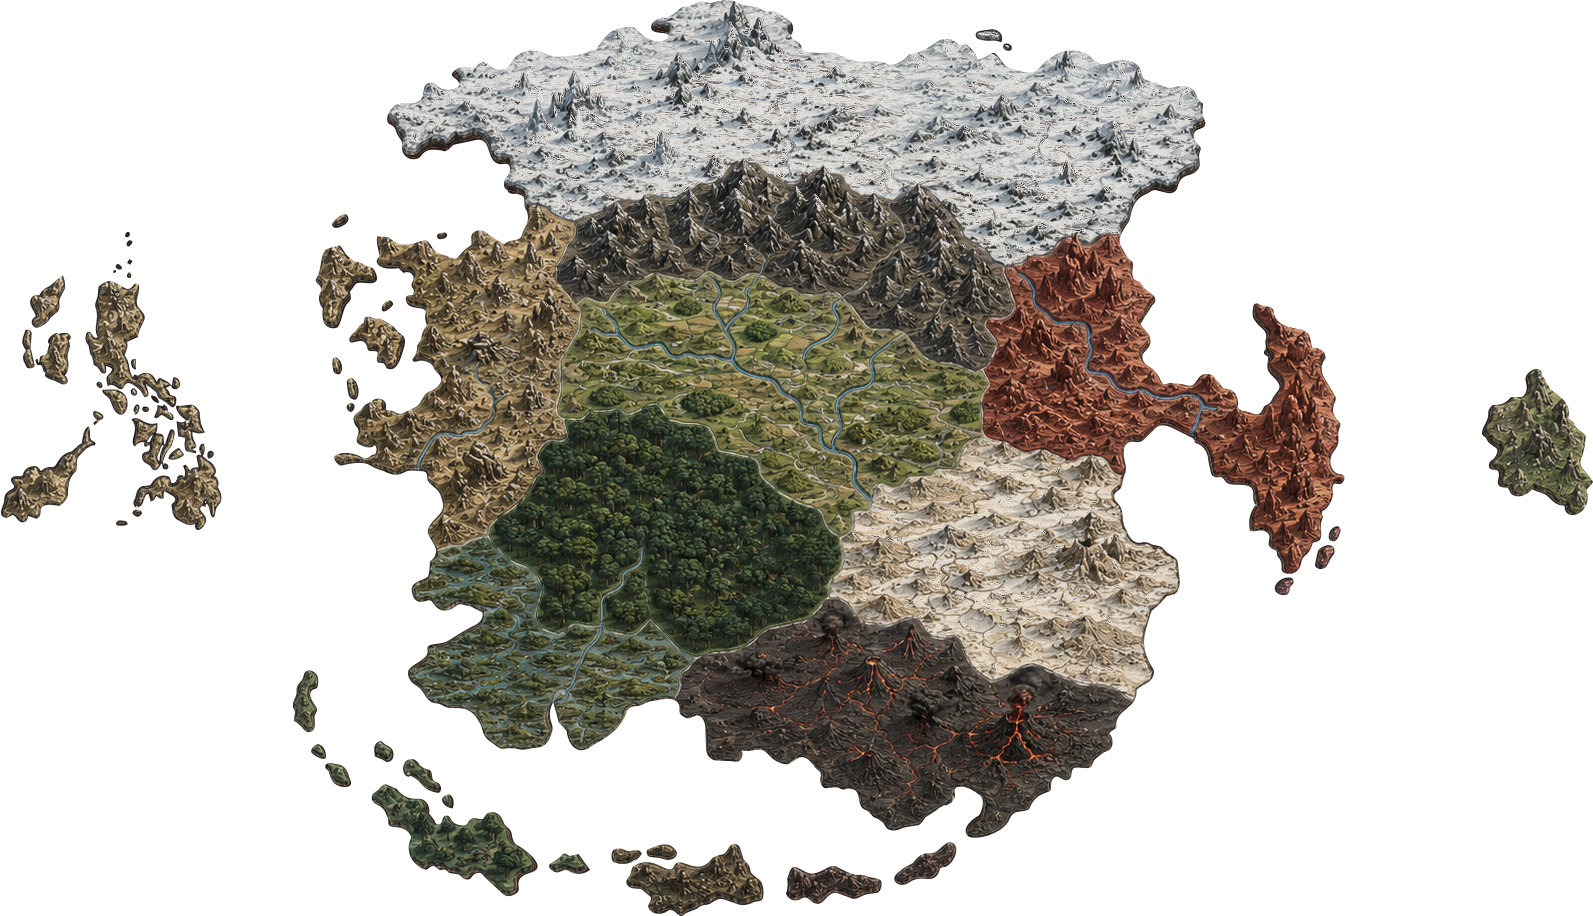
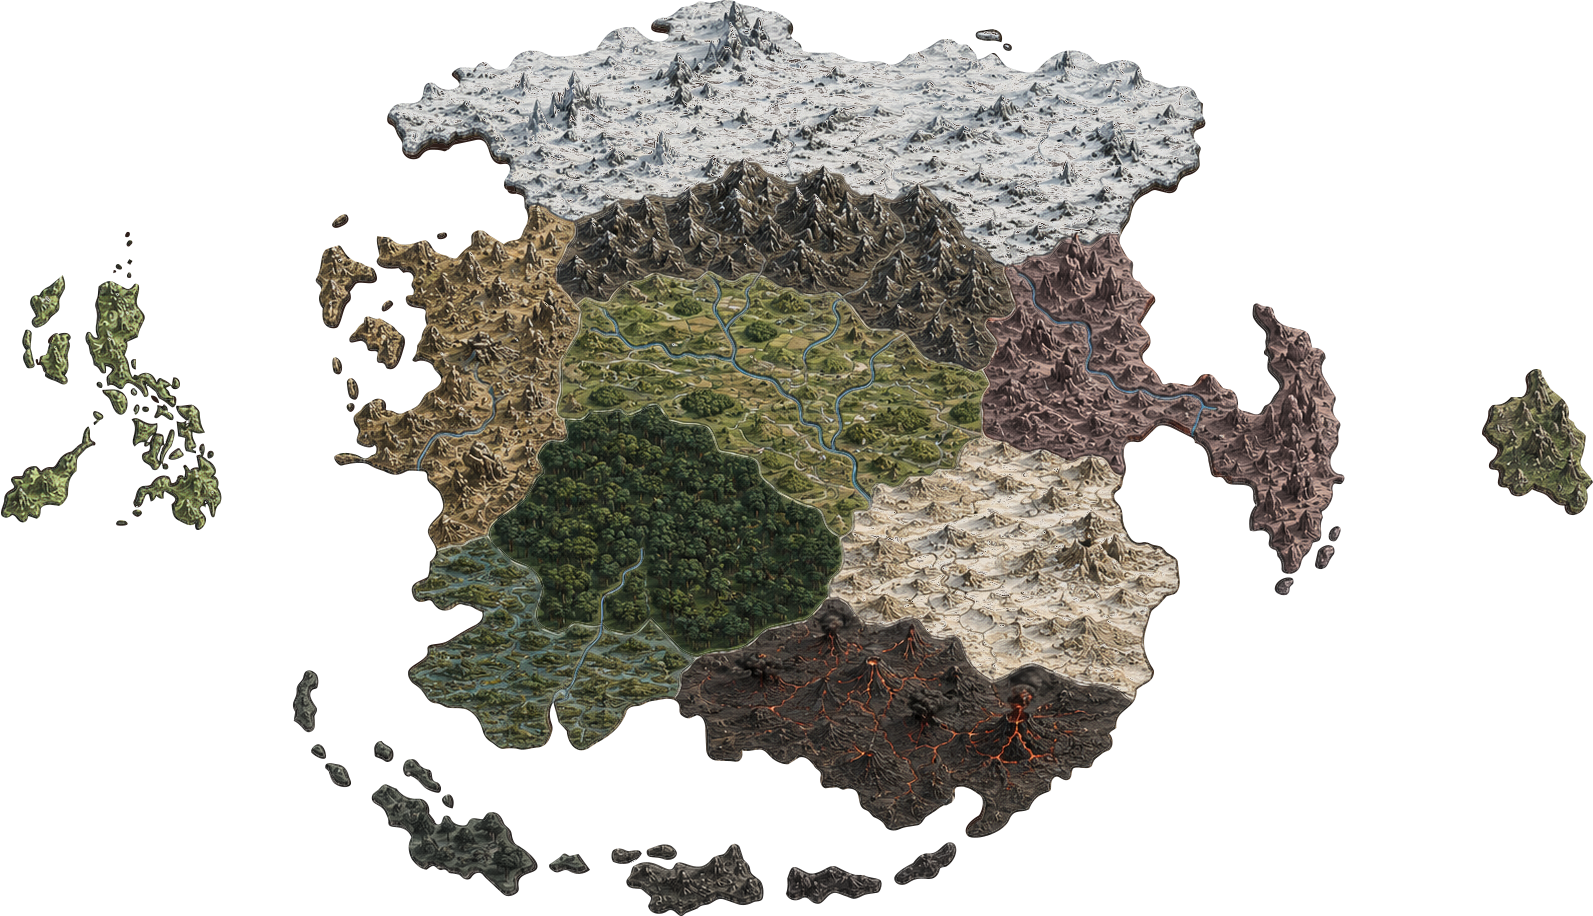
Atualiza mapa de Auren com novos assets

Changed region(s): [[0.6152, 0.2445, 0.8613, 0.6114]]

diff --git a/src/assets/assetRegistry.test.ts b/src/assets/assetRegistry.test.ts
@@ -1,0 +1,36 @@
+import { existsSync } from 'node:fs'
+import { resolve } from 'node:path'
+import { describe, expect, it } from 'vitest'
+import { brandRegistry } from './brandRegistry'
+import { characterRegistry } from './characterRegistry'
+import { iconRegistry } from './iconRegistry'
+import { mapRegistry } from './mapRegistry'
+import { regionRegistry } from './regionRegistry'
+
+function publicPath(url: string) {
+  const relative = decodeURIComponent(url.split('/assets/')[1] ?? '')
+  return resolve('public/assets', relative)
+}
+
+describe('registro central de assets', () => {
+  it('aponta apenas para arquivos públicos existentes', () => {
+    const urls = [
+      ...Object.values(brandRegistry),
+      ...Object.values(characterRegistry).map((asset) => asset.artwork),
+      ...Object.values(iconRegistry).map((asset) => asset.path),
+      ...Object.values(regionRegistry).map((asset) => asset.image),
+      mapRegistry.auren.water,
+      mapRegistry.auren.illustrated,
+      mapRegistry.auren.interactive,
+    ]
+
+    expect(urls).not.toHaveLength(0)
+    for (const url of urls) expect(existsSync(publicPath(url)), url).toBe(true)
+  })
+
+  it('preserva os nomes reais das novas imagens regionais', () => {
+    expect(regionRegistry['arquipelago-de-vesper'].image).toContain('Arquipelago de Vesper.png')
+    expect(regionRegistry['ilhas-cinzentas'].image).toContain('Ilhas Cinzentas.png')
+    expect(regionRegistry.ormara.image).toContain('Ormara.png')
+  })
+})

diff --git a/src/pages/MapPage.test.tsx b/src/pages/MapPage.test.tsx
@@ -2,21 +2,24 @@
 import '@testing-library/jest-dom/vitest'
 import { cleanup, fireEvent, render, screen, waitFor } from '@testing-library/react'
 import { afterEach, describe, expect, it, vi } from 'vitest'
-import { existsSync } from 'node:fs'
+import { existsSync, readFileSync } from 'node:fs'
 import { resolve } from 'node:path'
 import { aurenNonInteractiveLayerIds, aurenRegions, mapRegistry } from '../assets/mapRegistry'
 import { resolveRegionKey } from '../assets/regionRegistry'
 import { AurenMap } from '../components/AurenMap'
+import { RegionArtwork } from '../components/RegionArtwork'
 import { isAurenActivationKey, prepareAurenSvg, visibleMapLocations, type MapLocation } from '../components/aurenMapUtils'
 
-const svg=`<svg id="mapa-auren" xmlns="http://www.w3.org/2000/svg" viewBox="0 0 1591.7 916.3"><g id="vale-de-ardan"><path d="M0 0h20v20z"/></g><g id="divisoes-internas"/><path id="contorno-geral" d="M0 0h20v20z"/></svg>`
+const svg=`<svg id="mapa-auren" xmlns="http://www.w3.org/2000/svg" viewBox="0 0 1591.7 916.3"><g id="vale-de-ardan"><path d="M0 0h20v20z"/></g><g id="arquipelago-de-vesper"><path d="M30 0h20v20z"/></g><g id="divisoes-internas"/><path id="contorno-geral" d="M0 0h20v20z"/></svg>`
 afterEach(()=>{cleanup();vi.restoreAllMocks()})
 
 describe('mapa de Auren',()=>{
-  it('carrega os dois arquivos no mesmo plano lógico',()=>{expect(existsSync(resolve('public/assets/maps/mapa-realista-cortado.png'))).toBe(true);expect(existsSync(resolve('public/assets/maps/mapa-auren.svg'))).toBe(true);expect(mapRegistry.auren.viewBox).toBe('0 0 1591.7 916.3');expect(mapRegistry.auren.width/mapRegistry.auren.height).toBeCloseTo(1591.7/916.3,8);expect(Math.abs(mapRegistry.auren.rasterWidth/mapRegistry.auren.rasterHeight-mapRegistry.auren.width/mapRegistry.auren.height)).toBeLessThan(.002)})
-  it('mapeia IDs oficiais e aliases sem alterar as chaves persistidas',()=>{expect(aurenRegions['pantanos-de-varg'].regionKey).toBe('pantanos-negros');expect(aurenRegions['floresta-de-nhalor'].regionKey).toBe('floresta-antiga');expect(resolveRegionKey('Deserto de Sal')).toBe('deserto-branco');expect(resolveRegionKey('Península da Aurora')).toBe('peninsula-dos-mosteiros')})
-  it('marca somente regiões como interativas e preserva camadas passivas',()=>{const markup=prepareAurenSvg(svg);const doc=new DOMParser().parseFromString(markup,'image/svg+xml');expect(doc.getElementById('vale-de-ardan')?.getAttribute('role')).toBe('button');for(const id of aurenNonInteractiveLayerIds)expect(doc.getElementById(id)?.getAttribute('data-non-interactive')).toBe('true')})
+  it('carrega arte, interação e água no mesmo plano lógico',()=>{expect(existsSync(resolve('public/assets/maps/mapa-realista-cortado.png'))).toBe(true);expect(existsSync(resolve('public/assets/maps/mapa-auren.svg'))).toBe(true);expect(existsSync(resolve('public/assets/maps/agua.jpg'))).toBe(true);expect(mapRegistry.auren.viewBox).toBe('0 0 1591.7 916.3');expect(mapRegistry.auren.width/mapRegistry.auren.height).toBeCloseTo(1591.7/916.3,8);expect(Math.abs(mapRegistry.auren.rasterWidth/mapRegistry.auren.rasterHeight-mapRegistry.auren.width/mapRegistry.auren.height)).toBeLessThan(.002)})
+  it('mapeia IDs oficiais e aliases sem alterar nomes narrativos',()=>{expect(aurenRegions['pantanos-de-varg'].regionKey).toBe('pantanos-negros');expect(aurenRegions['floresta-de-nhalor'].regionKey).toBe('floresta-antiga');expect(aurenRegions['arquipelago-de-vesper'].regionKey).toBe('arquipelago-de-vesper');expect(aurenRegions.ormara.regionKey).toBe('ormara');expect(resolveRegionKey('Deserto de Sal')).toBe('deserto-branco');expect(resolveRegionKey('Península da Aurora')).toBe('peninsula-dos-mosteiros')})
+  it('reconhece todos os IDs reais do SVG e preserva camadas passivas',()=>{const source=readFileSync(resolve('public/assets/maps/mapa-auren.svg'),'utf8');const markup=prepareAurenSvg(source);const doc=new DOMParser().parseFromString(markup,'image/svg+xml');for(const id of Object.keys(aurenRegions))expect(doc.getElementById(id)?.getAttribute('role')).toBe('button');for(const id of aurenNonInteractiveLayerIds)expect(doc.getElementById(id)?.getAttribute('data-non-interactive')).toBe('true');expect(doc.documentElement.getAttribute('preserveAspectRatio')).toBe('none')})
   it('seleciona por clique e reconhece Enter e Espaço',async()=>{vi.stubGlobal('fetch',vi.fn().mockResolvedValue({ok:true,text:async()=>svg}));const select=vi.fn();const {container}=render(<AurenMap selected={null} onSelect={select}/>);await screen.findAllByRole('button',{name:'Vale de Ardan'});const region=container.querySelector<SVGElement>('[data-auren-region="vale-de-ardan"]')!;fireEvent.click(region);expect(select).toHaveBeenCalledWith('vale-de-ardan');expect(isAurenActivationKey('Enter')).toBe(true);expect(isAurenActivationKey(' ')).toBe(true);expect(isAurenActivationKey('Escape')).toBe(false)})
+  it('mantém água repetida, arte e SVG na mesma caixa responsiva',async()=>{vi.stubGlobal('fetch',vi.fn().mockResolvedValue({ok:true,text:async()=>svg}));const {container}=render(<AurenMap selected={null} onSelect={()=>{}}/>);await screen.findAllByRole('button',{name:'Vale de Ardan'});const viewport=screen.getByTestId('map-viewport');const stage=screen.getByTestId('map-stage');const artwork=container.querySelector('[data-map-layer="artwork"]');const interactive=container.querySelector('[data-map-layer="interactive"]');expect(viewport).toHaveAttribute('data-water-pattern','repeat');expect(viewport.getAttribute('style')).toContain(mapRegistry.auren.water);expect(artwork?.parentElement).toBe(stage);expect(interactive?.parentElement).toBe(stage);const css=readFileSync(resolve('src/styles.css'),'utf8');expect(css).toContain('background-repeat:repeat');expect(css).toContain('background-size:var(--auren-water-tile-size)');expect(css).toContain('@media(max-width:512px)')})
   it('mantém estado vazio e oculta locais não revelados',async()=>{vi.stubGlobal('fetch',vi.fn().mockResolvedValue({ok:true,text:async()=>svg}));const hidden:MapLocation={id:'x',name:'Oculto',kind:'cidade',x:.5,y:.5,revealed:false,regionId:'vale-de-ardan'};render(<AurenMap selected={null} onSelect={()=>{}} locations={[hidden]}/>);expect(await screen.findByText('Nenhum local revelado disponível para exibição.')).toBeInTheDocument();expect(screen.queryByRole('button',{name:'Oculto'})).not.toBeInTheDocument();expect(visibleMapLocations([hidden])).toHaveLength(0);expect(screen.getByTestId('map-viewport')).toHaveClass('auren-map__viewport')})
   it('mostra fallback quando SVG ou imagem falham',async()=>{vi.stubGlobal('fetch',vi.fn().mockRejectedValue(new Error('falha')));const {container}=render(<AurenMap selected={null} onSelect={()=>{}}/>);expect(await screen.findByRole('alert')).toHaveTextContent('camada interativa');fireEvent.error(container.querySelector('img')!);await waitFor(()=>expect(screen.getByRole('alert')).toHaveTextContent('imagem ilustrada'))})
+  it('usa fallback acessível quando a imagem regional falha',()=>{const {container}=render(<RegionArtwork region="ormara" alt="Ormara"/>);fireEvent.error(container.querySelector('img')!);expect(screen.getByRole('img',{name:'Ormara'})).toHaveClass('region-artwork--fallback')})
 })

diff --git a/src/components/AurenMap.tsx b/src/components/AurenMap.tsx
@@ -1,4 +1,4 @@
-import { useCallback, useEffect, useMemo, useRef, useState, type PointerEvent, type WheelEvent } from 'react'
+import { useCallback, useEffect, useMemo, useRef, useState, type CSSProperties, type PointerEvent, type WheelEvent } from 'react'
 import { AUREN_MAP_HEIGHT, AUREN_MAP_WIDTH, aurenRegionIds, aurenRegions, isAurenRegionId, mapMarkerIcons, mapRegistry, type AurenRegionId } from '../assets/mapRegistry'
 import { Icon } from './Icon'
 import { isAurenActivationKey, prepareAurenSvg, visibleMapLocations, type MapLocation } from './aurenMapUtils'
@@ -6,7 +6,7 @@ import { fitAurenMap, INITIAL_AUREN_MAP_TRANSFORM, stageMatrix, zoomAurenMap, ty
 
 function RegionOverlay({svg,onSelect,onHover}:{svg:string;onSelect:(id:AurenRegionId)=>void;onHover:(id:AurenRegionId|null)=>void}){
   const findRegion=(target:EventTarget|null)=>{const element=target instanceof Element?target.closest('[data-auren-region]'):null;const id=element?.getAttribute('data-auren-region');return id&&isAurenRegionId(id)?id:null}
-  return <div className="auren-map__svg" onClick={(event)=>{const id=findRegion(event.target);if(id)onSelect(id)}} onKeyDown={(event)=>{const id=findRegion(event.target);if(id&&isAurenActivationKey(event.key)){event.preventDefault();onSelect(id)}}} onPointerOver={(event)=>onHover(findRegion(event.target))} onPointerLeave={()=>onHover(null)} dangerouslySetInnerHTML={{__html:svg}} />
+  return <div className="auren-map__svg" data-map-layer="interactive" onClick={(event)=>{const id=findRegion(event.target);if(id)onSelect(id)}} onKeyDown={(event)=>{const id=findRegion(event.target);if(id&&isAurenActivationKey(event.key)){event.preventDefault();onSelect(id)}}} onFocus={(event)=>onHover(findRegion(event.target))} onBlur={()=>onHover(null)} onPointerOver={(event)=>onHover(findRegion(event.target))} onPointerLeave={()=>onHover(null)} dangerouslySetInnerHTML={{__html:svg}} />
 }
 
 export function AurenMap({locations=[],selected,onSelect}:{locations?:readonly MapLocation[];selected:AurenRegionId|null;onSelect:(id:AurenRegionId|null)=>void}){
@@ -26,12 +26,13 @@ export function AurenMap({locations=[],selected,onSelect}:{locations?:readonly M
   const cancelDrag=()=>{drag.current=null}
   const wheel=(event:WheelEvent<HTMLDivElement>)=>{event.preventDefault();zoom(event.deltaY<0?.2:-.2)}
   const matrix=stageMatrix(viewportSize,transform)
+  const waterStyle={'--auren-water-image':`url("${mapRegistry.auren.water}")`} as CSSProperties
   return <section className="auren-map" aria-label="Mapa interativo de Auren">
     <div className="auren-map__toolbar" aria-label="Controles do mapa"><button onClick={()=>zoom(.25)} aria-label="Aumentar zoom">+</button><button onClick={()=>zoom(-.25)} aria-label="Diminuir zoom">−</button><button onClick={center}>Centralizar mapa</button><output aria-live="polite">{Math.round(transform.scale*100)}%</output></div>
-    <div ref={viewport} className="auren-map__viewport" data-testid="map-viewport" onPointerDown={startDrag} onPointerMove={moveDrag} onPointerUp={endDrag} onPointerCancel={cancelDrag} onWheel={wheel}>
+    <div ref={viewport} className="auren-map__viewport" data-testid="map-viewport" data-water-pattern="repeat" style={waterStyle} onPointerDown={startDrag} onPointerMove={moveDrag} onPointerUp={endDrag} onPointerCancel={cancelDrag} onWheel={wheel}>
       {failed?<div className="auren-map__fallback" role="alert">Não foi possível carregar {failed==='svg'?'a camada interativa':'a imagem ilustrada'} do mapa.</div>:null}
       <div className="auren-map__stage" data-testid="map-stage" data-map-scale={transform.scale} data-map-x={transform.x} data-map-y={transform.y} style={{width:AUREN_MAP_WIDTH,height:AUREN_MAP_HEIGHT,transform:`matrix(${matrix.a},0,0,${matrix.d},${matrix.e},${matrix.f})`}}>
-        <img src={mapRegistry.auren.illustrated} width={mapRegistry.auren.rasterWidth} height={mapRegistry.auren.rasterHeight} alt="Mapa ilustrado de Auren" loading="lazy" draggable={false} onError={()=>setFailed('image')}/>
+        <img data-map-layer="artwork" src={mapRegistry.auren.illustrated} width={mapRegistry.auren.rasterWidth} height={mapRegistry.auren.rasterHeight} alt="Mapa ilustrado de Auren" loading="lazy" draggable={false} onError={()=>setFailed('image')}/>
         {svg?<RegionOverlay svg={svg} onSelect={onSelect} onHover={setHovered}/>:<div className="auren-map__loading" role="status">Carregando regiões…</div>}
         <div className="auren-map__markers" aria-label="Locais revelados">{shownLocations.map((location)=><button key={location.id} className="auren-map__marker" style={{left:`${location.x*100}%`,top:`${location.y*100}%`}} aria-label={location.name}><Icon name={mapMarkerIcons[location.kind]} size={24} decorative/></button>)}</div>
       </div>

diff --git a/src/assets/mapRegistry.ts b/src/assets/mapRegistry.ts
@@ -18,6 +18,7 @@ export const AUREN_RASTER_CALIBRATION = {
 
 export const mapRegistry = {
   auren: {
+    water: publicAssetUrl('maps/agua.jpg'),
     illustrated: publicAssetUrl('maps/mapa-realista-cortado.png'),
     interactive: publicAssetUrl('maps/mapa-auren.svg'),
     viewBox: AUREN_VIEW_BOX,
@@ -39,9 +40,9 @@ export const aurenRegions = {
   'mar-de-cinzas': { name: 'Mar de Cinzas', regionKey: 'terras-cinzentas' },
   'peninsula-da-aurora': { name: 'Península da Aurora', regionKey: 'peninsula-dos-mosteiros' },
   'estepes-do-norte': { name: 'Estepes do Norte', regionKey: 'estepes-do-norte' },
-  'arquipelago-de-vesper': { name: 'Arquipélago de Vesper', regionKey: null },
-  'ilhas-cinzentas': { name: 'Ilhas Cinzentas', regionKey: null },
-  ormara: { name: 'Ormara', regionKey: null },
+  'arquipelago-de-vesper': { name: 'Arquipélago de Vesper', regionKey: 'arquipelago-de-vesper' },
+  'ilhas-cinzentas': { name: 'Ilhas Cinzentas', regionKey: 'ilhas-cinzentas' },
+  ormara: { name: 'Ormara', regionKey: 'ormara' },
 } as const satisfies Record<string, { name: string; regionKey: RegionKey | null }>
 
 export type AurenRegionId = keyof typeof aurenRegions

diff --git a/src/styles.css b/src/styles.css
@@ -66,9 +66,11 @@ select,textarea{font:inherit;background:#0e0e0c;color:var(--paper);border:1px so
 
 /* Etapa 7: mapa de Auren */
 .map-page{width:min(100%,1500px);min-width:0}.map-page__header{margin-bottom:22px}.map-page__header h1{margin:.05em 0;font-size:clamp(2.8rem,6vw,5rem);color:#eee5d2}.map-page__header>p:last-child{max-width:65ch;margin:6px 0;color:#aaa191}.map-page__layout{display:grid;grid-template-columns:minmax(0,1fr) 330px;gap:18px;align-items:start}.auren-map{min-width:0}.auren-map__toolbar{display:flex;align-items:center;gap:7px;margin-bottom:8px}.auren-map__toolbar button,.map-region-panel button,.auren-map__region-list button{min-height:40px;border:1px solid #574c3a;background:#181510;color:#e9dfca;padding:8px 12px;cursor:pointer}.auren-map__toolbar button:first-child,.auren-map__toolbar button:nth-child(2){width:42px;padding:0;font-size:1.25rem}.auren-map__toolbar output{margin-left:auto;color:#a99f8c;font-size:.75rem}.auren-map__viewport{position:relative;overflow:hidden;min-height:300px;aspect-ratio:1591.7/916.3;border:1px solid #504532;background:#0b0b0a;cursor:grab;touch-action:none;box-shadow:0 18px 55px rgba(0,0,0,.28)}.auren-map__viewport:active{cursor:grabbing}.auren-map__stage{position:absolute;left:0;top:0;transform-origin:0 0;will-change:transform}.auren-map__stage>img,.auren-map__svg,.auren-map__svg>svg,.auren-map__markers{position:absolute;inset:0;width:100%;height:100%}.auren-map__stage>img{display:block;user-select:none}.auren-map__svg>svg{display:block}.auren-map__svg [data-auren-region]{cursor:pointer;outline:none}.auren-map__svg [data-auren-region] path,.auren-map__svg path[data-auren-region]{fill:rgba(187,154,86,.02)!important;stroke:rgba(238,220,177,.48)!important;stroke-width:1.5px;vector-effect:non-scaling-stroke;transition:fill .16s ease,stroke .16s ease}.auren-map__svg [data-auren-region]:hover path,.auren-map__svg path[data-auren-region]:hover,.auren-map__svg [data-auren-region]:focus path,.auren-map__svg path[data-auren-region]:focus{fill:rgba(190,143,63,.18)!important;stroke:#f0d39a!important;stroke-width:3px}.auren-map__svg [data-auren-region][aria-pressed=true] path,.auren-map__svg path[data-auren-region][aria-pressed=true]{fill:rgba(142,75,51,.24)!important;stroke:#fff0c8!important;stroke-width:4px;stroke-dasharray:7 3}.auren-map__svg [data-non-interactive]{pointer-events:none}.auren-map__markers{pointer-events:none}.auren-map__marker{position:absolute;display:grid;width:30px;height:30px;place-items:center;transform:translate(-50%,-50%);border:1px solid #e1c487;border-radius:50%;background:#17130d;pointer-events:auto}.auren-map__tooltip{position:absolute;z-index:3;left:14px;bottom:14px;padding:7px 10px;border:1px solid #8b744b;background:rgba(14,13,10,.94);color:#f0e5ce;font-size:.78rem;pointer-events:none}.auren-map__loading,.auren-map__fallback{position:absolute;z-index:4;inset:0;display:grid;place-items:center;background:#12110e;color:#c4b9a6}.auren-map__fallback{padding:24px;text-align:center}.auren-map__empty{margin:8px 0;color:#8f8779;font-size:.72rem}.auren-map__region-list{margin-top:11px;border-top:1px solid #40392e;padding-top:10px}.auren-map__region-list summary{color:#b9aa8d;cursor:pointer}.auren-map__region-list ul{display:flex;flex-wrap:wrap;gap:6px;list-style:none;padding:10px 0 0}.auren-map__region-list button{min-height:36px;padding:6px 9px}.auren-map__region-list button[aria-pressed=true]{border-color:#c4a66d;color:#fff0ce}.map-region-panel{position:sticky;top:20px;overflow:hidden;min-height:320px;border:1px solid #4b4234;background:#15130f}.map-region-panel>img{display:block;width:100%;aspect-ratio:16/9;object-fit:cover}.map-region-panel>div{padding:22px}.map-region-panel h2{margin:.1em 0 .35em;font-size:2rem}.map-region-panel h3{margin:26px 0 6px;font-size:1rem}.map-region-panel p:not(.eyebrow){color:#aaa191;line-height:1.55}.map-region-panel__actions{display:grid;gap:7px;margin-top:22px}.map-region-panel__empty{min-height:320px;display:flex;flex-direction:column;justify-content:center}
+.auren-map{width:100%;max-width:1160px;justify-self:center}.auren-map__viewport{--auren-water-tile-size:clamp(160px,18vw,240px);background-color:#315b6c;background-image:var(--auren-water-image);background-repeat:repeat;background-position:center;background-size:var(--auren-water-tile-size) var(--auren-water-tile-size)}.auren-map__stage>[data-map-layer=artwork]{z-index:1;object-fit:fill;object-position:center}.auren-map__svg{z-index:2}.auren-map__markers{z-index:3}.auren-map__tooltip{z-index:4}.auren-map__loading,.auren-map__fallback{z-index:5}.map-region-panel__artwork{display:block;width:100%;aspect-ratio:16/9;margin:0;overflow:hidden}.map-region-panel__artwork img{display:block;width:100%;height:100%;object-fit:cover}.map-region-panel__artwork.region-artwork--fallback{background:linear-gradient(135deg,#1f2b2d,#11100e)}
+.region-artwork--fallback{display:grid;place-items:center;min-height:120px;background:#171c1d;color:#b9b09e;text-align:center}.region-artwork--fallback span{padding:12px;font-size:.75rem}
 @media(max-width:1024px){.map-page__layout{grid-template-columns:minmax(0,1fr) 280px}.map-region-panel>div{padding:18px}}
 @media(max-width:900px){.map-page__layout{grid-template-columns:1fr}.map-region-panel{position:static;min-height:0}.map-region-panel__empty{min-height:180px}.auren-map__viewport{min-height:0}}
-@media(max-width:512px){.auren-map__toolbar{flex-wrap:wrap}.auren-map__toolbar button:nth-child(3){flex:1}.auren-map__viewport{aspect-ratio:1.2}.auren-map__region-list ul{display:grid;grid-template-columns:1fr 1fr}.auren-map__region-list button{width:100%;height:100%;text-align:left}.map-page__header h1{font-size:2.8rem}}
+@media(max-width:512px){.auren-map__toolbar{flex-wrap:wrap}.auren-map__toolbar button:nth-child(3){flex:1}.auren-map__viewport{--auren-water-tile-size:144px;aspect-ratio:1.2}.auren-map__region-list ul{display:grid;grid-template-columns:1fr 1fr}.auren-map__region-list button{width:100%;height:100%;text-align:left}.map-page__header h1{font-size:2.8rem}}
 @media(max-width:390px){.auren-map__region-list ul{grid-template-columns:1fr}.auren-map__toolbar output{width:100%;margin:0}.map-region-panel>div{padding:16px}}
 @media(prefers-reduced-motion:reduce){.auren-map__stage,.auren-map__svg [data-auren-region] path{transition:none!important;scroll-behavior:auto!important}}
 

diff --git a/src/assets/regionRegistry.ts b/src/assets/regionRegistry.ts
@@ -10,6 +10,9 @@ const REGIONS = {
   'terras-cinzentas': { name: 'Terras Cinzentas', image: publicAssetUrl('regions/terras-cinzentas.webp'), aliases: ['Terras Cinzentas', 'Mar de Cinzas'] },
   'peninsula-dos-mosteiros': { name: 'Península dos Mosteiros', image: publicAssetUrl('regions/peninsula-dos-mosteiros.webp'), aliases: ['Península dos Mosteiros', 'Peninsula dos Mosteiros', 'Península da Aurora'] },
   'estepes-do-norte': { name: 'Estepes do Norte', image: publicAssetUrl('regions/estepes-do-norte.webp'), aliases: ['Estepes do Norte'] },
+  'arquipelago-de-vesper': { name: 'Arquipélago de Vesper', image: publicAssetUrl('regions/Arquipelago de Vesper.png'), aliases: ['Arquipélago de Vesper', 'Arquipelago de Vesper'] },
+  'ilhas-cinzentas': { name: 'Ilhas Cinzentas', image: publicAssetUrl('regions/Ilhas Cinzentas.png'), aliases: ['Ilhas Cinzentas'] },
+  ormara: { name: 'Ormara', image: publicAssetUrl('regions/Ormara.png'), aliases: ['Ormara'] },
 } as const
 
 export const regionRegistry: Readonly<typeof REGIONS> = REGIONS

diff --git a/src/components/aurenMapUtils.ts b/src/components/aurenMapUtils.ts
@@ -10,6 +10,9 @@ export function prepareAurenSvg(source:string){
   const svg=document.documentElement
   if(svg.nodeName.toLowerCase()!=='svg'||document.querySelector('parsererror'))throw new Error('SVG inválido')
   if(svg.getAttribute('viewBox')!==mapRegistry.auren.viewBox)throw new Error('viewBox incompatível')
+  svg.setAttribute('width','100%')
+  svg.setAttribute('height','100%')
+  svg.setAttribute('preserveAspectRatio','none')
   svg.setAttribute('aria-label','Regiões de Auren')
   for(const id of aurenRegionIds){const region=document.getElementById(id);if(!region)continue;region.setAttribute('role','button');region.setAttribute('tabindex','0');region.setAttribute('aria-label',aurenRegions[id].name);region.setAttribute('data-auren-region',id)}
   for(const id of aurenNonInteractiveLayerIds){const layer=document.getElementById(id);layer?.setAttribute('aria-hidden','true');layer?.setAttribute('data-non-interactive','true')}

diff --git a/src/pages/CompendiumPage.tsx b/src/pages/CompendiumPage.tsx
@@ -5,6 +5,7 @@ import { Icon } from '../components/Icon'
 import { ATTRIBUTE_NAMES, type ClassDefinition } from '../game-data/classes'
 import { COMPENDIUM_SOURCE, ENEMY_ARCHETYPES, attributeName, classIcon, type CompendiumCategory } from '../game-data/compendium'
 import type { Attributes } from '../types/database'
+import { RegionArtwork } from '../components/RegionArtwork'
 
 type Detail={title:string;icon:IconName;body:ReactNode}|null
 const normalize=(value:string)=>value.normalize('NFD').replace(/[\u0300-\u036f]/g,'').toLowerCase()
@@ -23,4 +24,4 @@ export function CompendiumPage(){const[query,setQuery]=useState(''),[category,se
  {visible('items')?<CompendiumSection id="items" title="Itens" count={0}><CompendiumEmptyState title="Itens e equipamentos" icons={['inventario','equipamento','capacete','armadura','luvas','botas','anel','amuleto','ouro']}/></CompendiumSection>:null}
  </div>{detail?<CompendiumDetail title={detail.title} icon={detail.icon} onClose={()=>setDetail(null)}>{detail.body}</CompendiumDetail>:null}</div>}
 function CharacterArtworkForDetail({definition}:{definition:ClassDefinition}){return <div className="detail-art"><Icon name={classIcon(definition.key)} size={30} decorative/><span>{definition.name}</span></div>}
-function RegionArtworkForDetail({region,name}:{region:string;name:string}){return <div className="detail-region"><img src={COMPENDIUM_SOURCE.regions.find(item=>item.key===region)?.image} alt={name}/></div>}
+function RegionArtworkForDetail({region,name}:{region:string;name:string}){return <RegionArtwork region={region} alt={name} className="detail-region" loading="lazy"/>}

diff --git a/src/pages/MapPage.tsx b/src/pages/MapPage.tsx
@@ -2,10 +2,11 @@ import { useState } from 'react'
 import { aurenRegions, type AurenRegionId } from '../assets/mapRegistry'
 import { regionRegistry } from '../assets/regionRegistry'
 import { AurenMap } from '../components/AurenMap'
+import { RegionArtwork } from '../components/RegionArtwork'
 
 export function MapPage(){
   const [selected,setSelected]=useState<AurenRegionId|null>(null)
   const current=selected?aurenRegions[selected]:null
   const registered=current?.regionKey?regionRegistry[current.regionKey]:null
-  return <div className="map-page"><header className="map-page__header"><p className="eyebrow">Atlas do Relicário</p><h1>Auren</h1><p>Explore as regiões conhecidas. Os locais aparecem somente quando forem revelados na campanha.</p></header><div className="map-page__layout"><AurenMap selected={selected} onSelect={setSelected}/><aside className="map-region-panel" aria-live="polite">{current?<>{registered?<img src={registered.image} alt="" loading="lazy"/>:null}<div><p className="eyebrow">Região selecionada</p><h2>{current.name}</h2><p>{registered?'Não há descrição regional registrada nesta etapa.':'Ainda não há imagem ou descrição registrada para esta região.'}</p><h3>Locais revelados</h3><p>Nenhum local revelado disponível.</p><div className="map-region-panel__actions"><button onClick={()=>{window.dispatchEvent(new CustomEvent('auren:center-region',{detail:selected}));document.querySelector<HTMLElement>(`[data-auren-region="${selected}"]`)?.focus()}}>Centralizar na região</button><button onClick={()=>setSelected(null)}>Limpar seleção</button></div></div></>:<div className="map-region-panel__empty"><p className="eyebrow">Regiões de Auren</p><h2>Selecione uma região</h2><p>Use o mapa ou a lista textual para consultar uma região sem ocultar o restante do continente.</p></div>}</aside></div></div>
+  return <div className="map-page"><header className="map-page__header"><p className="eyebrow">Atlas do Relicário</p><h1>Auren</h1><p>Explore as regiões conhecidas. Os locais aparecem somente quando forem revelados na campanha.</p></header><div className="map-page__layout"><AurenMap selected={selected} onSelect={setSelected}/><aside className="map-region-panel" aria-live="polite">{current?<>{registered?<RegionArtwork region={current.regionKey!} alt={current.name} className="map-region-panel__artwork" loading="lazy"/>:null}<div><p className="eyebrow">Região selecionada</p><h2>{current.name}</h2><p>{registered?'Não há descrição regional registrada nesta etapa.':'Ainda não há imagem ou descrição registrada para esta região.'}</p><h3>Locais revelados</h3><p>Nenhum local revelado disponível.</p><div className="map-region-panel__actions"><button onClick={()=>{window.dispatchEvent(new CustomEvent('auren:center-region',{detail:selected}));document.querySelector<HTMLElement>(`[data-auren-region="${selected}"]`)?.focus()}}>Centralizar na região</button><button onClick={()=>setSelected(null)}>Limpar seleção</button></div></div></>:<div className="map-region-panel__empty"><p className="eyebrow">Regiões de Auren</p><h2>Selecione uma região</h2><p>Use o mapa ou a lista textual para consultar uma região sem ocultar o restante do continente.</p></div>}</aside></div></div>
 }

diff --git a/src/components/RegionArtwork.tsx b/src/components/RegionArtwork.tsx
@@ -14,7 +14,7 @@ export function RegionArtwork({ region, className = '', alt, loading = 'lazy' }:
   const asset = key ? regionRegistry[key] : null
 
   if (!asset || failed) {
-    return <div className={`region-artwork region-artwork--fallback ${className}`.trim()} role="img" aria-label={alt ?? 'Imagem de região indisponível'} />
+    return <div className={`region-artwork region-artwork--fallback ${className}`.trim()} role="img" aria-label={alt ?? 'Imagem de região indisponível'}><span>Imagem indisponível</span></div>
   }
 
   return (

diff --git a/src/pages/CompendiumPage.test.tsx b/src/pages/CompendiumPage.test.tsx
@@ -11,7 +11,7 @@ afterEach(cleanup)
 const renderPage=()=>render(<MemoryRouter><CompendiumPage/></MemoryRouter>)
 
 describe('Compêndio',()=>{
- it('renderiza seis classes, cinco atributos, condições e as nove regiões reais',()=>{const{container}=renderPage();expect(container.querySelectorAll('.class-compendium-card')).toHaveLength(6);const attributes=within(screen.getByRole('region',{name:'Atributos'}));for(const name of ['Força','Agilidade','Intelecto','Presença','Instinto'])expect(attributes.getByRole('heading',{name})).toBeInTheDocument();for(const name of ['Ferido','Exausto','Amedrontado','Envenenado','Imobilizado','Desorientado','Corrompido','Caído'])expect(screen.getByRole('heading',{name})).toBeInTheDocument();expect(container.querySelectorAll('.region-compendium-card')).toHaveLength(9)})
+ it('renderiza seis classes, cinco atributos, condições e as doze regiões reais',()=>{const{container}=renderPage();expect(container.querySelectorAll('.class-compendium-card')).toHaveLength(6);const attributes=within(screen.getByRole('region',{name:'Atributos'}));for(const name of ['Força','Agilidade','Intelecto','Presença','Instinto'])expect(attributes.getByRole('heading',{name})).toBeInTheDocument();for(const name of ['Ferido','Exausto','Amedrontado','Envenenado','Imobilizado','Desorientado','Corrompido','Caído'])expect(screen.getByRole('heading',{name})).toBeInTheDocument();for(const name of ['Arquipélago de Vesper','Ilhas Cinzentas','Ormara'])expect(screen.getByRole('heading',{name})).toBeInTheDocument();expect(container.querySelectorAll('.region-compendium-card')).toHaveLength(12)})
  it('busca por termos mecânicos',()=>{renderPage();fireEvent.change(screen.getByRole('searchbox',{name:'Buscar no Compêndio'}),{target:{value:'Faísca arcana'}});expect(screen.getByRole('heading',{name:'Arcanista'})).toBeInTheDocument();expect(screen.queryByRole('heading',{name:'Guerreiro'})).not.toBeInTheDocument()})
  it('filtra especialidades por atributo',()=>{renderPage();fireEvent.change(screen.getByLabelText('Categoria'),{target:{value:'specialties'}});fireEvent.change(screen.getByLabelText('Atributo'),{target:{value:'presence'}});expect(screen.getByRole('heading',{name:'Persuasão'})).toBeInTheDocument();expect(screen.getByRole('heading',{name:'Performance'})).toBeInTheDocument();expect(screen.queryByRole('heading',{name:'Atletismo'})).not.toBeInTheDocument()})
  it('filtra os quatro templates de inimigo por nível',()=>{const{container}=renderPage();fireEvent.change(screen.getByLabelText('Categoria'),{target:{value:'enemies'}});fireEvent.change(screen.getByLabelText('Nível de inimigo'),{target:{value:'3'}});expect(container.querySelectorAll('.compendium-card')).toHaveLength(4);expect(screen.getByRole('heading',{name:'Nível 3 · chefe'})).toBeInTheDocument()})

diff --git a/docs/ASSET_ARCHITECTURE.md b/docs/ASSET_ARCHITECTURE.md
@@ -8,9 +8,9 @@ Inventário conferido:
 
 - 72 de 72 ícones encontrados e organizados;
 - 6 de 6 personagens encontrados;
-- 9 de 9 imagens de regiões encontradas e convertidas de PNG para WebP;
+- 12 de 12 imagens de regiões e ilhas encontradas; as nove anteriores permanecem em WebP e as três novas preservam os nomes e o formato PNG fornecidos;
 - logo e favicon encontrados;
-- dois mapas de Auren foram fornecidos e copiados para `public/assets/maps/`, mantendo os originais em `assets/mapa/`.
+- o SVG interativo, o PNG recortado do continente e a textura de água foram conferidos e copiados para `public/assets/maps/`, mantendo os originais em `assets/mapa/`.
 
 Os SVGs copiados mantêm o conteúdo original. Somente os nomes e diretórios de destino foram normalizados. Os nomes consumidos pelo código usam kebab-case, sem acentos.
 
@@ -78,6 +78,9 @@ Todos os caminhos passam por `publicAssetUrl`, respeitando o `BASE_URL` usado no
 | `assets/bg-regioes/Terras Cinzentas.png` | `public/assets/regions/terras-cinzentas.webp` |
 | `assets/bg-regioes/Vale de Ardan - Floresta Antiga.png` | `public/assets/regions/vale-de-ardan-floresta-antiga.webp` |
 | `assets/bg-regioes/Vale de Ardan.png` | `public/assets/regions/vale-de-ardan.webp` |
+| `assets/bg-regioes/Arquipelago de Vesper.png` | `public/assets/regions/Arquipelago de Vesper.png` |
+| `assets/bg-regioes/Ilhas Cinzentas.png` | `public/assets/regions/Ilhas Cinzentas.png` |
+| `assets/bg-regioes/Ormara.png` | `public/assets/regions/Ormara.png` |
 
 ## Mapeamento dos ícones
 
@@ -209,13 +212,23 @@ O prefixo numérico do arquivo original foi removido no destino.
 
 | Origem | Destino | Uso |
 | --- | --- | --- |
-| `assets/mapa/mapa-realista.png` | `public/assets/maps/mapa-realista.png` | camada ilustrada |
-| `assets/mapa/mapa-auren.svg` | `public/assets/maps/mapa-auren.svg` | geometria e interação |
+| `assets/mapa/agua.jpg` | `public/assets/maps/agua.jpg` | textura repetível de água, 1000 × 1000 px |
+| `assets/mapa/mapa-realista-cortado.png` | `public/assets/maps/mapa-realista-cortado.png` | camada artística recortada e transparente, 1593 × 916 px |
+| `assets/mapa/mapa-auren.svg` | `public/assets/maps/mapa-auren.svg` | geometria e interação, `viewBox="0 0 1591.7 916.3"` |
 
-Os caminhos e o `viewBox` são centralizados em `src/assets/mapRegistry.ts`. O SVG original não foi alterado.
+Os caminhos, dimensões e o `viewBox` são centralizados em `src/assets/mapRegistry.ts`. O SVG original não é reescrito: `prepareAurenSvg` prepara somente a cópia carregada no navegador com semântica, foco e atributos de interação.
+
+### Arquitetura de camadas do mapa
+
+1. `.auren-map__viewport` cobre toda a área disponível com `agua.jpg`, usando uma única `background-image` repetida. O tamanho do padrão vem de `--auren-water-tile-size`, reduzido no breakpoint móvel sem distorcer a textura quadrada.
+2. `.auren-map__stage` é o único plano sujeito a fit, zoom e pan. Seu tamanho lógico é 1591,7 × 916,3 e ele permanece centralizado no viewport.
+3. `mapa-realista-cortado.png` ocupa toda a caixa lógica como camada artística (`z-index: 1`).
+4. `mapa-auren.svg` ocupa a mesma caixa e o mesmo plano de transformação como camada interativa (`z-index: 2`). Seus IDs reais são associados em `aurenRegions`, sem alteração da geometria.
+5. Marcadores revelados ficam acima do SVG (`z-index: 3`) e tooltips acima das camadas do mapa (`z-index: 4`). Estados de carregamento e erro ficam no topo.
+
+IDs interativos confirmados no SVG: `vale-de-ardan`, `floresta-de-nhalor`, `costa-quebrada`, `cordilheira-de-ferro`, `pantanos-de-varg`, `deserto-de-sal`, `mar-de-cinzas`, `peninsula-da-aurora`, `estepes-do-norte`, `arquipelago-de-vesper`, `ilhas-cinzentas` e `ormara`. `divisoes-internas` e `contorno-geral` permanecem camadas passivas.
 
 ## Pendências reais
 
 - Ainda não existem dados reais de locais revelados para alimentar marcadores no mapa.
-- Ormara, Ilhas Cinzentas e Arquipélago de Vesper ainda não possuem imagens regionais registradas.
 - Os originais em `assets/` só devem ser removidos depois da validação visual e funcional final.